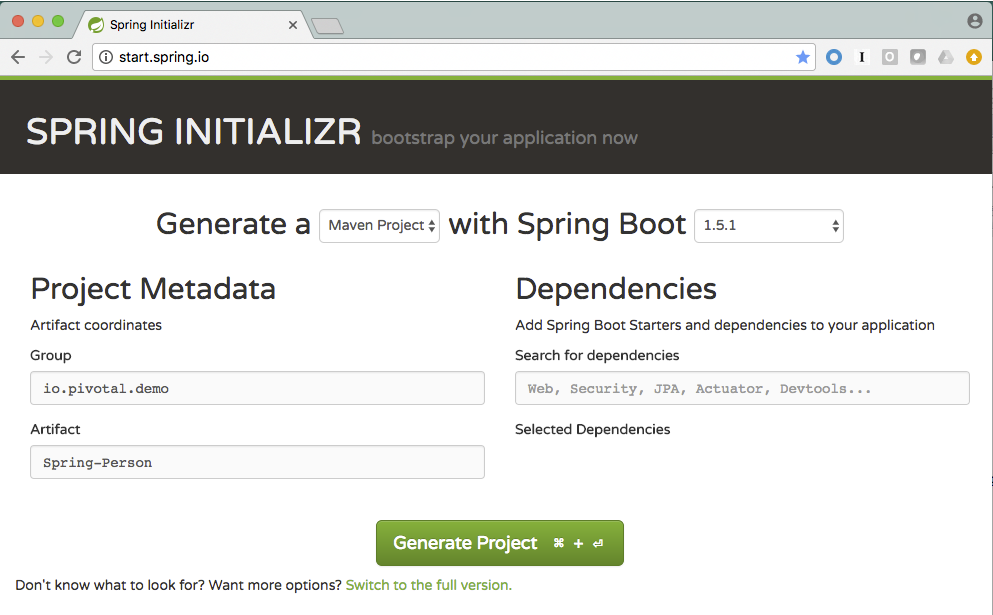
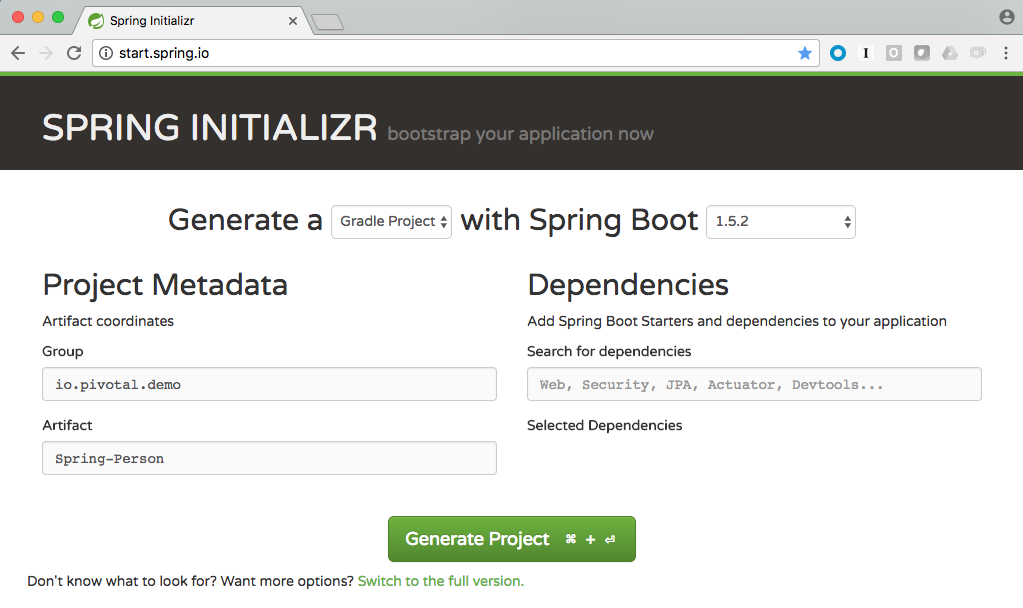
Updated to use Gradle

diff --git a/index.html b/index.html
@@ -565,7 +565,7 @@ body.book #toc,body.book #preamble,body.book h1.sect0,body.book .sect1>h2{page-b
 <p>Go to <a href="http://start.spring.io">start.spring.io</a></p>
 </li>
 <li>
-<p>Generate a <strong>Maven Project</strong> with Spring Boot version <strong>1.5.1</strong></p>
+<p>Generate a <strong>Gradle Project</strong> with Spring Boot version <strong>1.5.2</strong></p>
 </li>
 <li>
 <p>In the Project Metadata section</p>
@@ -670,7 +670,7 @@ body.book #toc,body.book #preamble,body.book h1.sect0,body.book .sect1>h2{page-b
 <p>Now start up your favorite Java IDE. Spring Tool Suite, IntelliJ and Eclipse are common choices.</p>
 </li>
 <li>
-<p>The next step is to import the project you just uncompressed within your Java IDE. Look for an option to import an existing Maven project. Navigate to the folder and walk through the prompts. Note that the image below is captured from STS / Eclipse.</p>
+<p>The next step is to import the project you just uncompressed within your Java IDE. Look for an option to import an existing Gradle project. Navigate to the folder and walk through the prompts. <strong>Be sure you click on the Build Model Button</strong>. Note that the image below is captured from STS / Eclipse.</p>
 <div class="imageblock">
 <div class="content">
 <img src="images/sts-import-project.png" alt="Importing Maven Project using STS / Eclipse">
@@ -696,10 +696,26 @@ body.book #toc,body.book #preamble,body.book h1.sect0,body.book .sect1>h2{page-b
 <div class="olist arabic">
 <ol class="arabic">
 <li>
-<p>Build and Run your application in your IDE</p>
+<p>Build and Run your application as a Spring Boot in your IDE</p>
 <div class="imageblock">
 <div class="content">
 <img src="images/running-in-sts.png" alt="running in sts.png">
+</div>
+</div>
+</li>
+<li>
+<p>If you don&#8217;t have an option to run as a Spring Boot application, Run as a Java application.</p>
+<div class="imageblock">
+<div class="content">
+<img src="images/run-as-java-application.png" alt="run as java application.png">
+</div>
+</div>
+</li>
+<li>
+<p>When prompted to select the Java Application, type Spring in the search box and highlight SpringPersonApplication and click the OK button.</p>
+<div class="imageblock">
+<div class="content">
+<img src="images/select-java-application.png" alt="select java application.png">
 </div>
 </div>
 </li>
@@ -1070,21 +1086,21 @@ import org.springframework.web.bind.annotation.RestController;
 @RequestMapping(value = "/persons")
 public class PersonController {
 
-	private CrudRepository&lt;Person, String&gt; repository;
+    private CrudRepository&lt;Person, String&gt; repository;
 
-	@Autowired
-	public PersonController(CrudRepository&lt;Person, String&gt; repository)
-	{
-		this.repository = repository;
-	}
+    @Autowired
+    public PersonController(CrudRepository&lt;Person, String&gt; repository)
+    {
+        this.repository = repository;
+    }
 
-	@RequestMapping(method = RequestMethod.GET)
-	public Iterable&lt;Person&gt; persons()
-	{
-		return repository.findAll();
-	}
+    @RequestMapping(method = RequestMethod.GET)
+    public Iterable&lt;Person&gt; persons()
+    {
+        return repository.findAll();
+    }
 
-	@RequestMapping(method = RequestMethod.PUT)
+    @RequestMapping(method = RequestMethod.PUT)
     public Person add(@RequestBody @Valid Person person) {
         return repository.save(person);
     }
@@ -1164,24 +1180,36 @@ public class PersonController {
 </li>
 <li>
 <p>Build the application jar file</p>
+<div class="paragraph">
+<p>On a <strong>Mac</strong> use the following commands</p>
+</div>
 <div class="listingblock">
 <div class="content">
 <pre class="highlightjs highlight"><code>$ cd &lt;location of your project&gt;
-$ ./mvnw clean package -DskipTests</code></pre>
+$ ./gradlew clean build -x test</code></pre>
 </div>
 </div>
 <div class="paragraph">
-<p>This creates a self-contained Jar file for the application in the <em>target</em> folder. As an alternative, you can create the jar file within your IDE. For the purposes of this example, it is assumed that the location of the jar file is in the <em>target</em> folder.</p>
+<p>On <strong>Windows</strong> use the following commands</p>
+</div>
+<div class="listingblock">
+<div class="content">
+<pre class="highlightjs highlight"><code>&gt; cd &lt;location of your project&gt;
+&gt; gradlew.bat clean build -x test</code></pre>
+</div>
 </div>
 <div class="paragraph">
-<p>Notice the <strong>-DskipTest</strong> argument which tells Maven that it should not run the unit tests. The reason we are using specifying this is because running the tests locally will fail because it will not be able to locate a local Redis repository.</p>
+<p>This creates a self-contained Jar file for the application in the <em>build/libs</em> folder. As an alternative, you can create the jar file within your IDE. For the purposes of this example, it is assumed that the location of the jar file is in the <em>build/libs</em> folder.</p>
+</div>
+<div class="paragraph">
+<p>Notice the <strong>-x test</strong> argument which tells Gradle that it should not run the unit tests. The reason we are using specifying this is because running the tests locally will fail because it will not be able to locate a local Redis repository.</p>
 </div>
 </li>
 <li>
 <p>Push the application using the following command line</p>
 <div class="listingblock">
 <div class="content">
-<pre class="highlightjs highlight"><code>$ cf push spring-person --no-start --random-route -p target/Spring-Person-0.0.1-SNAPSHOT.jar
+<pre class="highlightjs highlight"><code>$ cf push spring-person --no-start --random-route -p build/libs/Spring-Person-0.0.1-SNAPSHOT.jar
 Creating app spring-person in org pivotal / space development as rross@pivotal.io...
 OK
 
@@ -1353,7 +1381,7 @@ applications:
 - name: spring-person
   memory: 1G
   random-route: true
-  path: target/Spring-Person-0.0.1-SNAPSHOT.jar
+  path: build/libs/Spring-Person-0.0.1-SNAPSHOT.jar
   services:
    - SpringPersonRedis</code></pre>
 </div>
@@ -1494,22 +1522,38 @@ applications:
 </li>
 <li>
 <p>Build the application jar file</p>
+<div class="paragraph">
+<p>On a Mac run the following commands:</p>
+</div>
 <div class="listingblock">
 <div class="content">
 <pre class="highlightjs highlight"><code>$ cd &lt;location of your project&gt;
-$ ./mvnw clean package -DskipTests</code></pre>
+$ ./gradlew clean build -x test</code></pre>
 </div>
+</div>
+<div class="paragraph">
+<p>On Windows run the following commands</p>
 </div>
 </li>
-<li>
-<p>Push the application to Pivotal Cloud Foundry</p>
+</ol>
+</div>
+<div class="listingblock">
+<div class="content">
+<pre class="highlightjs highlight"><code>&gt; cd &lt;location of your project&gt;
+&gt; gradlew clean build -x test</code></pre>
+</div>
+</div>
+<div class="paragraph">
+<p>+
+. Push the application to Pivotal Cloud Foundry</p>
+</div>
+<div class="paragraph">
+<p>+</p>
+</div>
 <div class="listingblock">
 <div class="content">
 <pre class="highlightjs highlight"><code>$ cf push</code></pre>
 </div>
-</div>
-</li>
-</ol>
 </div>
 <div class="paragraph">
 <p>Let&#8217;s hit a few of the endpoints that gave errors before.</p>
@@ -1575,6 +1619,8 @@ $ ./mvnw clean package -DskipTests</code></pre>
 <div class="paragraph">
 <p>This step requires that you have installed git on your computer. You will need to be able to create a local repository in order for this step to work.</p>
 </div>
+<div class="sect5">
+<h6 id="truefor-maven-projects-follow-these-instructions"><a class="anchor" href="#truefor-maven-projects-follow-these-instructions"></a>For Maven Projects follow these instructions:</h6>
 <div class="olist arabic">
 <ol class="arabic">
 <li>
@@ -1594,6 +1640,36 @@ $ ./mvnw clean package -DskipTests</code></pre>
 <li>
 <p>Save the file</p>
 </li>
+</ol>
+</div>
+</div>
+</div>
+<div class="sect4">
+<h5 id="truefor-gradle-projects-follow-these-instructions"><a class="anchor" href="#truefor-gradle-projects-follow-these-instructions"></a>For Gradle Projects follow these instructions:</h5>
+<div class="olist arabic">
+<ol class="arabic">
+<li>
+<p>Edit the build.gradle file. It is located in the root folder of the project.</p>
+</li>
+<li>
+<p>Navigate down to the plugin section. Add the following snippet before the apply plugin section</p>
+<div class="listingblock">
+<div class="content">
+<pre>plugins {
+	id "com.gorylenko.gradle-git-properties" version "1.4.17"
+}</pre>
+</div>
+</div>
+</li>
+<li>
+<p>Save the file</p>
+</li>
+</ol>
+</div>
+<div class="sect5">
+<h6 id="trueediting-the-application-properties-file"><a class="anchor" href="#trueediting-the-application-properties-file"></a>Editing the application.properties File</h6>
+<div class="olist arabic">
+<ol class="arabic">
 <li>
 <p>Edit the application.properties file. It is located in the src/main/resources folder.</p>
 </li>
@@ -1611,7 +1687,7 @@ $ ./mvnw clean package -DskipTests</code></pre>
 <p>These changes that we added to the project adds Git information to the /info endpoint. For additional details visit this <a href="http://docs.pivotal.io/pivotalcf/1-9/console/spring-boot-actuators.html#git-info">link</a></p>
 </div>
 <div class="paragraph">
-<p>By adding these configuration changes (specifically the git commit plugin XML) you are indicating that your application has a git repository. Since we have started from scratch, let&#8217;s create a git repository.</p>
+<p>By adding these configuration changes (specifically the git commit plugin) you are indicating that your application has a git repository. Since we have started from scratch, let&#8217;s create a git repository.</p>
 </div>
 <div class="paragraph">
 <p>Note: Failure to create a git repository will result in a build error.</p>
@@ -1629,7 +1705,7 @@ $ ./mvnw clean package -DskipTests</code></pre>
 <div class="listingblock">
 <div class="content">
 <pre class="highlightjs highlight"><code>$ git init
-$ git add .gitignore manifest.yml mvnw mvnw.cmd pom.xml src/
+$ git add .gitignore manifest.yml build.gradle gradlew gradlew.bat src/
 $ git commit -m 'Initial commit'</code></pre>
 </div>
 </div>
@@ -1637,11 +1713,15 @@ $ git commit -m 'Initial commit'</code></pre>
 </ol>
 </div>
 </div>
+</div>
 <div class="sect4">
 <h5 id="trueadding-additional-information-into-apps-manager"><a class="anchor" href="#trueadding-additional-information-into-apps-manager"></a>Adding Additional Information into Apps Manager</h5>
 <div class="paragraph">
 <p>Let&#8217;s make a few minor changes to our application to expose additional details.</p>
 </div>
+</div>
+<div class="sect4">
+<h5 id="truefor-maven-projects-follow-these-instructions-2"><a class="anchor" href="#truefor-maven-projects-follow-these-instructions-2"></a>For Maven Projects follow these instructions</h5>
 <div class="olist arabic">
 <ol class="arabic">
 <li>
@@ -1712,6 +1792,33 @@ $ git commit -m 'Initial commit'</code></pre>
 <li>
 <p>Save the file</p>
 </li>
+</ol>
+</div>
+</div>
+<div class="sect4">
+<h5 id="truefor-gradle-projects-follow-these-instructions-2"><a class="anchor" href="#truefor-gradle-projects-follow-these-instructions-2"></a>For Gradle Projects follow these instructions</h5>
+<div class="olist arabic">
+<ol class="arabic">
+<li>
+<p>Edit the build.gradle file. It is located in the root folder of the project</p>
+</li>
+<li>
+<p>Add the following snippet before the dependencies section</p>
+<div class="listingblock">
+<div class="content">
+<pre>springBoot  {
+    buildInfo()
+}</pre>
+</div>
+</div>
+</li>
+</ol>
+</div>
+</div>
+<div class="sect4">
+<h5 id="trueediting-the-application-properties-file-2"><a class="anchor" href="#trueediting-the-application-properties-file-2"></a>Editing the application.properties file</h5>
+<div class="olist arabic">
+<ol class="arabic">
 <li>
 <p>Edit the application.properties file. It is located in the src/main/resources folder.</p>
 </li>
@@ -1736,10 +1843,22 @@ info.app.version.spring=@spring.version@</pre>
 </li>
 <li>
 <p>Build the application jar file</p>
+<div class="paragraph">
+<p>On a <strong>Mac</strong> use the following commands:</p>
+</div>
 <div class="listingblock">
 <div class="content">
 <pre class="highlightjs highlight"><code>$ cd &lt;location of your project&gt;
-$ ./mvnw clean package -DskipTests</code></pre>
+$ ./gradlew clean build -x test</code></pre>
+</div>
+</div>
+<div class="paragraph">
+<p>On <strong>Windows</strong> use the following commands:</p>
+</div>
+<div class="listingblock">
+<div class="content">
+<pre class="highlightjs highlight"><code>&gt; cd &lt;location of your project&gt;
+&gt; gradlew.bat clean build -x test</code></pre>
 </div>
 </div>
 </li>
@@ -1801,7 +1920,7 @@ $ ./mvnw clean package -DskipTests</code></pre>
 </div>
 <div id="footer">
 <div id="footer-text">
-Last updated 2017-03-06 04:56:20 EST
+Last updated 2017-03-24 13:56:16 EDT
 </div>
 </div>
 <link rel="stylesheet" href="https://cdnjs.cloudflare.com/ajax/libs/highlight.js/8.9.1/styles/github.min.css">
